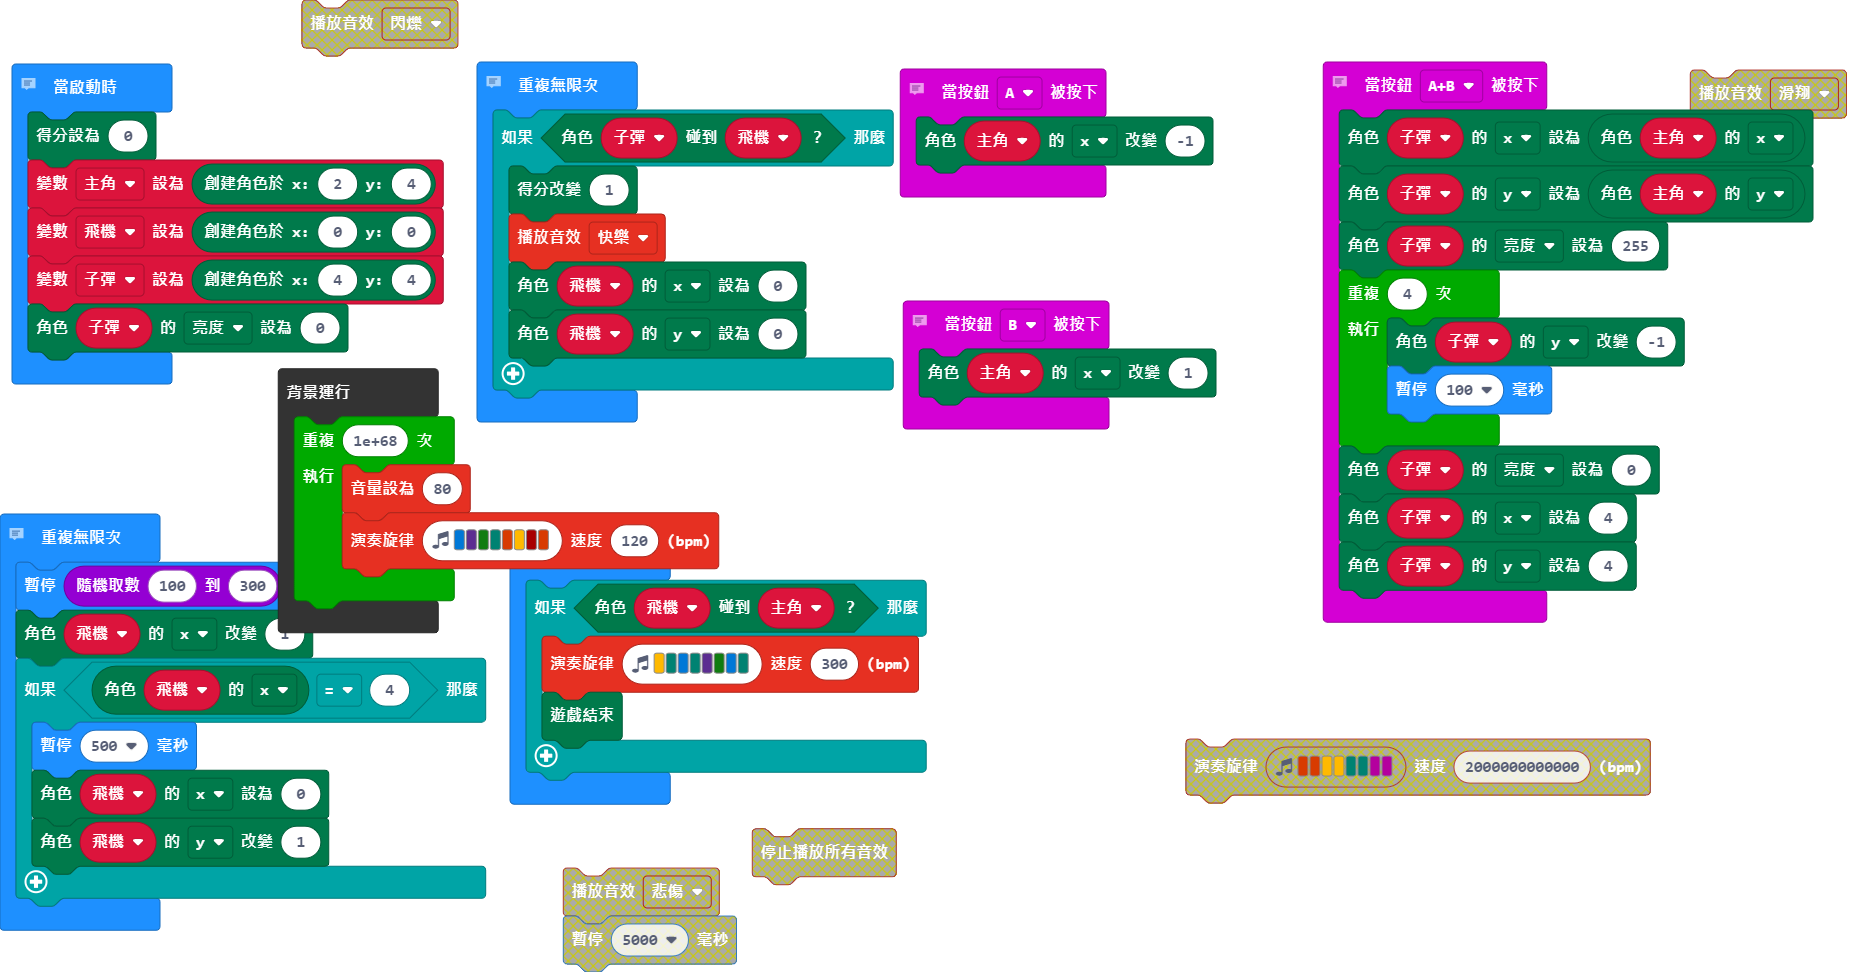
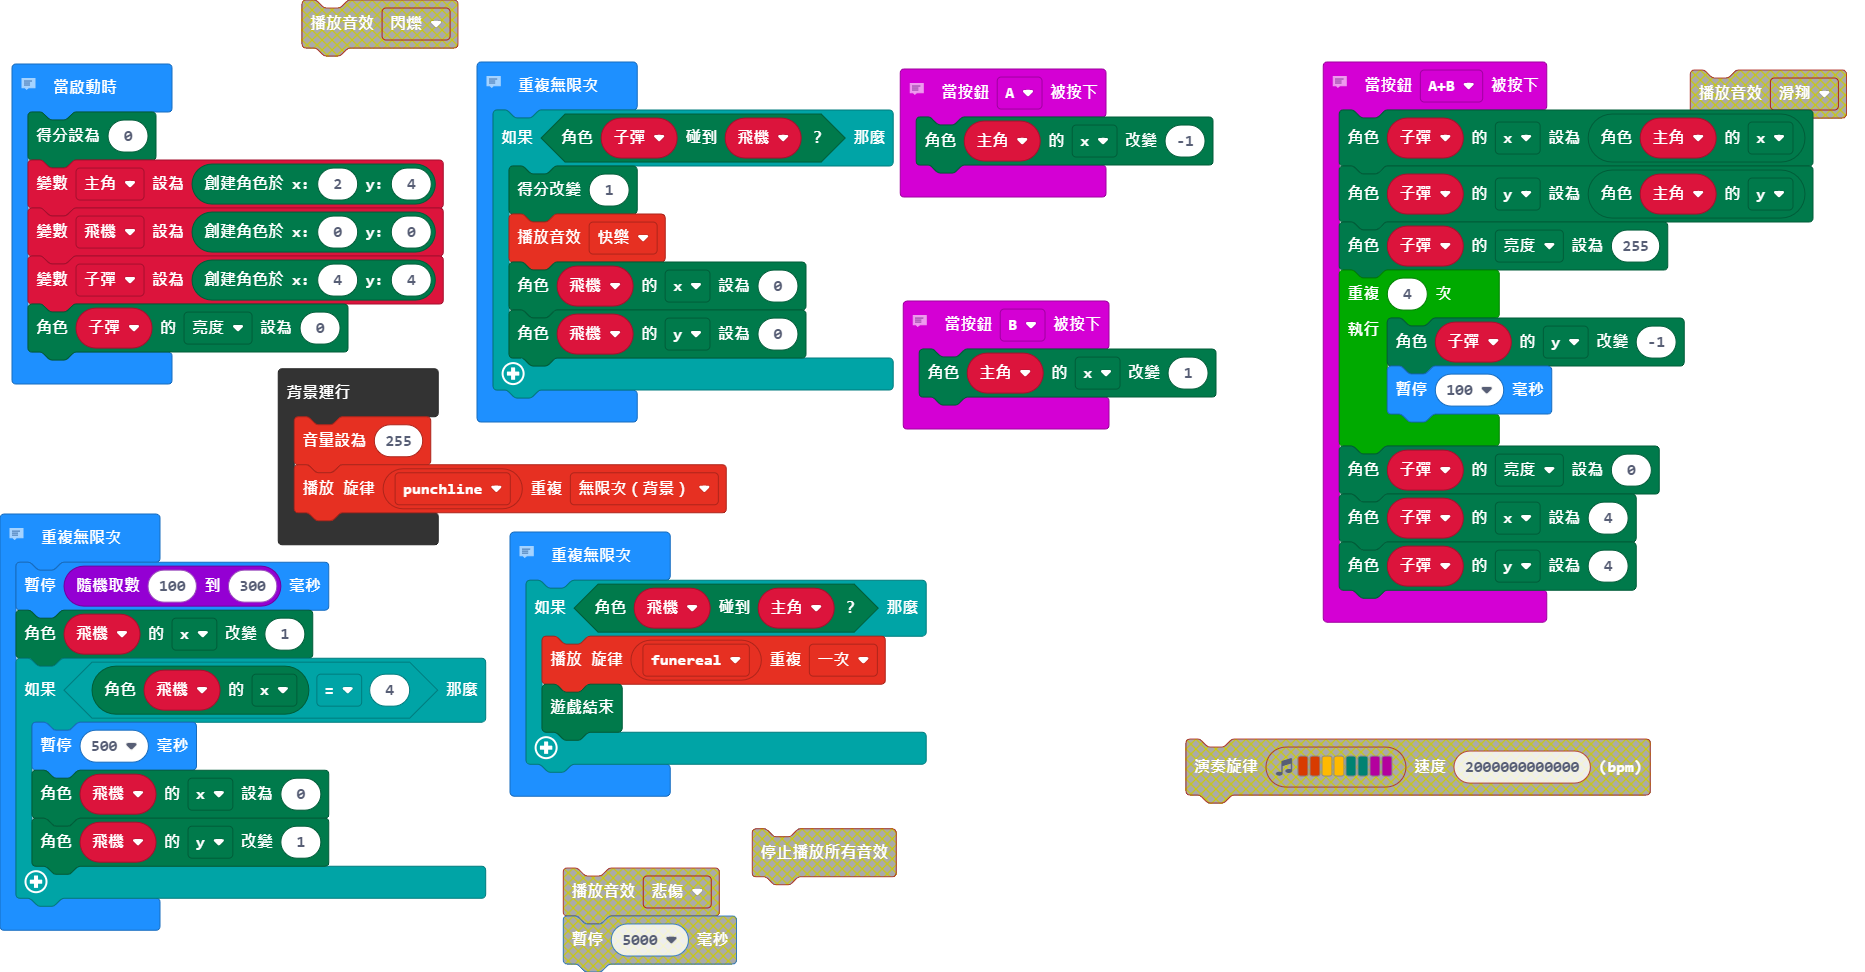
更新 main.blocks, main.ts

Changed region(s): [[0.1244, 0.4012, 0.4043, 0.679], [0.2799, 0.6481, 0.4976, 0.8333]]

diff --git a/main.ts b/main.ts
@@ -51,13 +51,11 @@ basic.forever(function () {
 // 被打就結束
 basic.forever(function () {
     if (飛機.isTouching(主角)) {
-        music.playMelody("A F E F D G E F ", 300)
+        music.startMelody(music.builtInMelody(Melodies.Funeral), MelodyOptions.Once)
         game.gameOver()
     }
 })
 control.inBackground(function () {
-    for (let index = 0; index < 1e+68; index++) {
-        music.setVolume(80)
-        music.playMelody("E D G F B A C5 B ", 120)
-    }
+    music.setVolume(255)
+    music.startMelody(music.builtInMelody(Melodies.Punchline), MelodyOptions.ForeverInBackground)
 })
